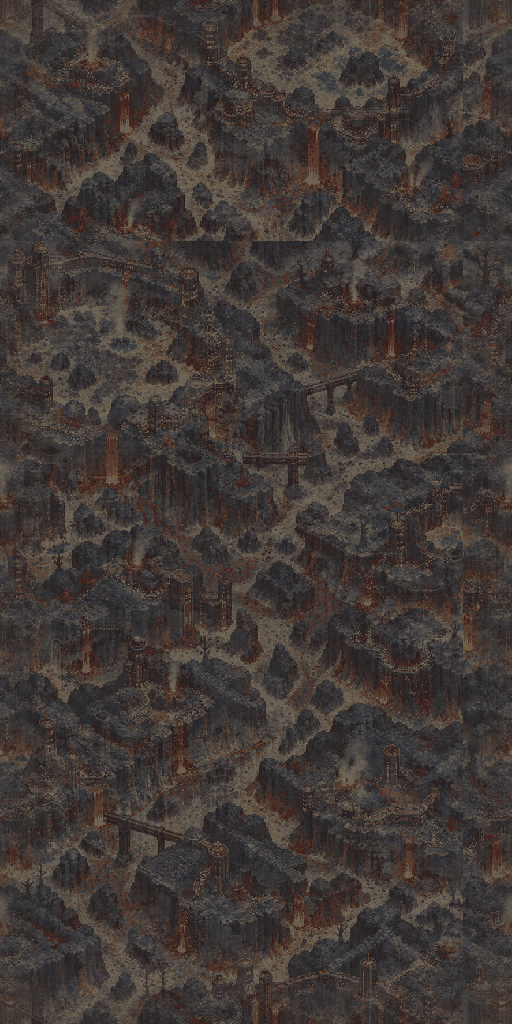
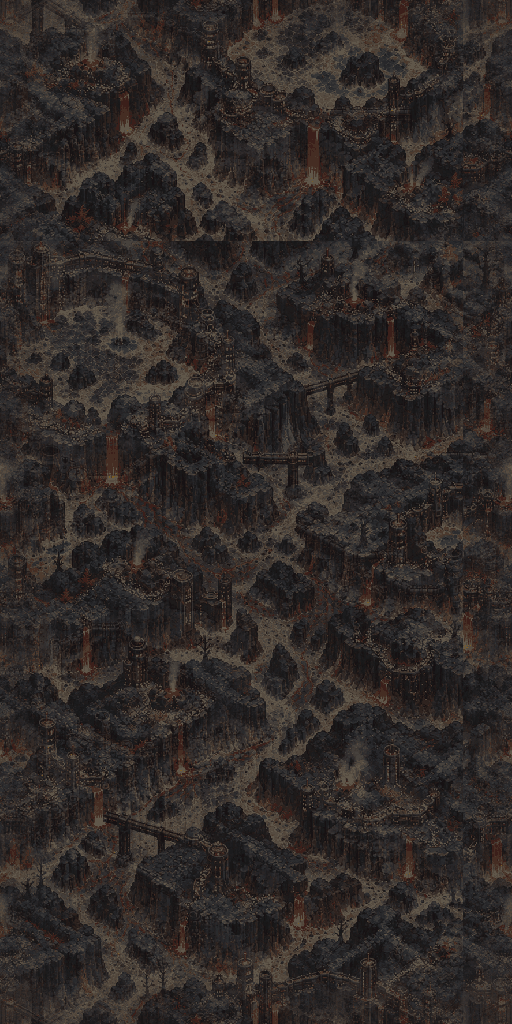
Ember: darken v1/v3 sky under the as-drawn luminance cap; relax the night/day lane guard to within 25% (night differs by lights and hue)

diff --git a/Pause/Assets/Editor/Tests/EmberBackdropTest.cs b/Pause/Assets/Editor/Tests/EmberBackdropTest.cs
@@ -637,8 +637,12 @@ public static class EmberBackdropTest
                   ":1 >= 7 (lane median value " + shot.median.ToString("F2") + ", p90 " + shot.p90.ToString("F2") + ", hull " + hullV.ToString("F2") + ")",
                   body >= 2.5f && kick >= 7f);
         }
-        Check("the night side renders darker than the day (median " + nightMedian.ToString("F3") + " < " + dayMedian.ToString("F3") + ")",
-              nightMedian < dayMedian * .92f);
+        // Guard relaxed (user decision, 2026-10-26): since the Codex redraws every Ember variant has a dark, low-contrast
+        // play layer, so the night side is no longer a darker lane than the day (measured: day .067, night .078, the
+        // night's extra being its stronger lights / loops). Night differs by lights and hue, not by a darker lane: it
+        // only has to stay within ~25% of the day and under an absolute sanity bound, so it can never become a bright lane.
+        Check("the night side stays within 25% of the day's lane and dark (median " + nightMedian.ToString("F3") + " <= " + (dayMedian * 1.25f).ToString("F3") +
+              " and <= .09)", nightMedian <= dayMedian * 1.25f && nightMedian <= .09f);
     }
 
     struct Shot { public float mean, median, p90, laneLum; }

diff --git a/Pause/Assets/Art/Worlds/Ember/backdrop_v3~/src~/ember_v1/asdrawn_check.py b/Pause/Assets/Art/Worlds/Ember/backdrop_v3~/src~/ember_v1/asdrawn_check.py
@@ -1,0 +1,18 @@
+import sys, numpy as np
+from PIL import Image
+VB={1:.6,2:.35,3:.7,4:.55}; SH={'sky':.6,'far':.8,'mid':1.0}; CAP={'sky':(.16,.18,.25),'far':(None,.18,.25),'mid':(None,.18,.25)}
+def asdrawn(path,v,l):
+    a=np.asarray(Image.open(path).convert('RGBA')).astype(np.float32)/255
+    k=1.0; vb=VB[v]; lift=max(.3,k*(1+(vb-1)*SH[l]))
+    rgb=a[...,:3]; vmax=rgb.max(2); curve=1-np.power(np.clip(1-vmax,0,1),lift)
+    kk=np.where(vmax>1e-4,curve/np.maximum(vmax,1e-4),0); o=rgb*kk[...,None]
+    return o,a[...,3],vmax
+def measure(path,v,l):
+    o,al,_=asdrawn(path,v,l); o=o.reshape(-1,3)[::3]; al=al.reshape(-1)[::3]
+    lum=(al*(.2126*o[:,0]+.7152*o[:,1]+.0722*o[:,2])).sum()/al.sum(); ch=(al*(o.max(1)-o.min(1))).sum()/al.sum()
+    _,_,vm=asdrawn(path,v,l); 
+    return round(float(lum),3),round(float(ch),3)
+if __name__=='__main__':
+    d=sys.argv[1]
+    for v in (1,2,3,4):
+        print(v,{l:measure(f'{d}/v{v}_{l}.png',v,l) for l in ('sky','far','mid')})

diff --git a/Pause/Assets/Art/Worlds/Ember/backdrop_v3~/src~/build_ember_v1.py b/Pause/Assets/Art/Worlds/Ember/backdrop_v3~/src~/build_ember_v1.py
@@ -35,6 +35,8 @@ GOLD = {"far": (172, 128, 48), "sky": (122, 92, 38)}
 MID_SRC = {1: "v1_new_a_river.png"}
 FOG = (.09, .08, .08)
 CAP = .45
+# sky is hidden under the opaque mid tile but WorldBackdropTest measures it AS DRAWN (gamma luma, variant lift): v1/v3 need a lower sky target to stay <= EmberSkyMaxLuminance .16
+SKY_TARGET = {1: .30, 3: .30}
 NCOL = {"sky": 44, "far": 84, "mid": 58}
 
 
@@ -88,6 +90,7 @@ def ground(v, role):
     t = cfg["target"][role]
     if role == "mid": t = MID_TARGET.get(v, t)
     if role == "far": t = FAR_TARGET.get(v, t)
+    if role == "sky": t = SKY_TARGET.get(v, t)
     rgb = grade(painted, t, cfg["contrast"][role], cfg["sat"][role], cfg["haze"][role], NCOL[role])
     rgba = np.dstack((rgb, np.full((H, W), 255, np.uint8)))
     rgba = wrap_blend(rgba, 78)
